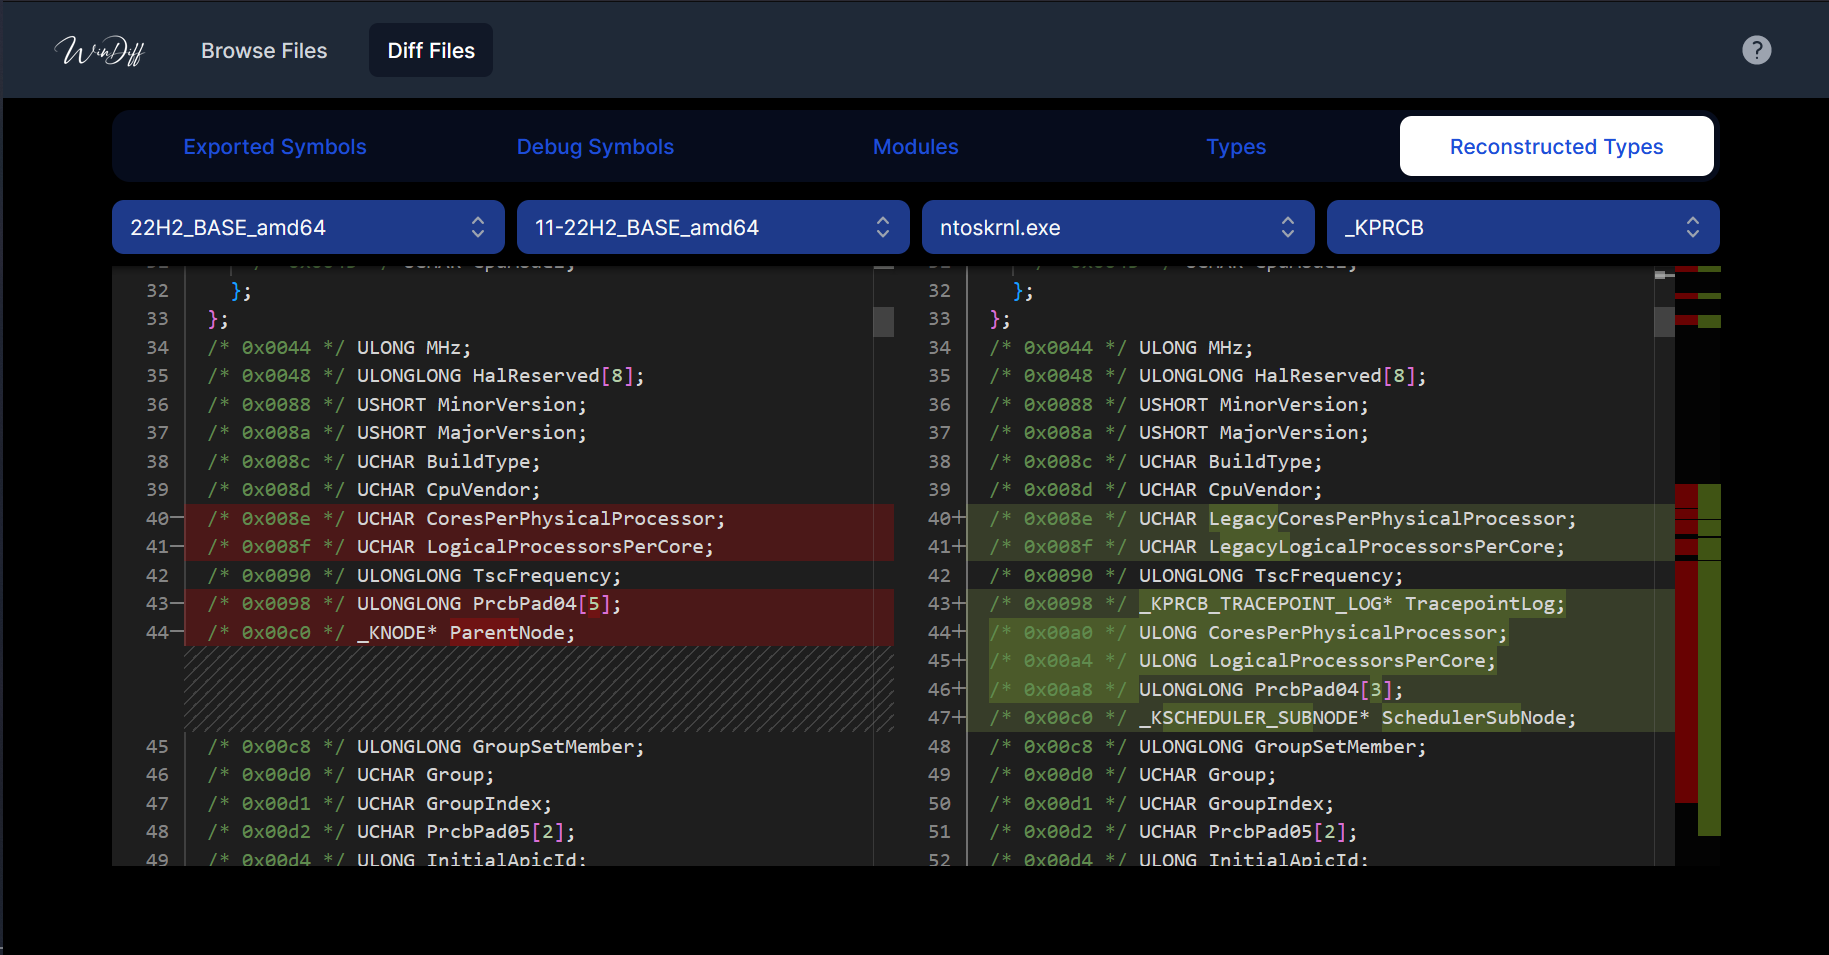
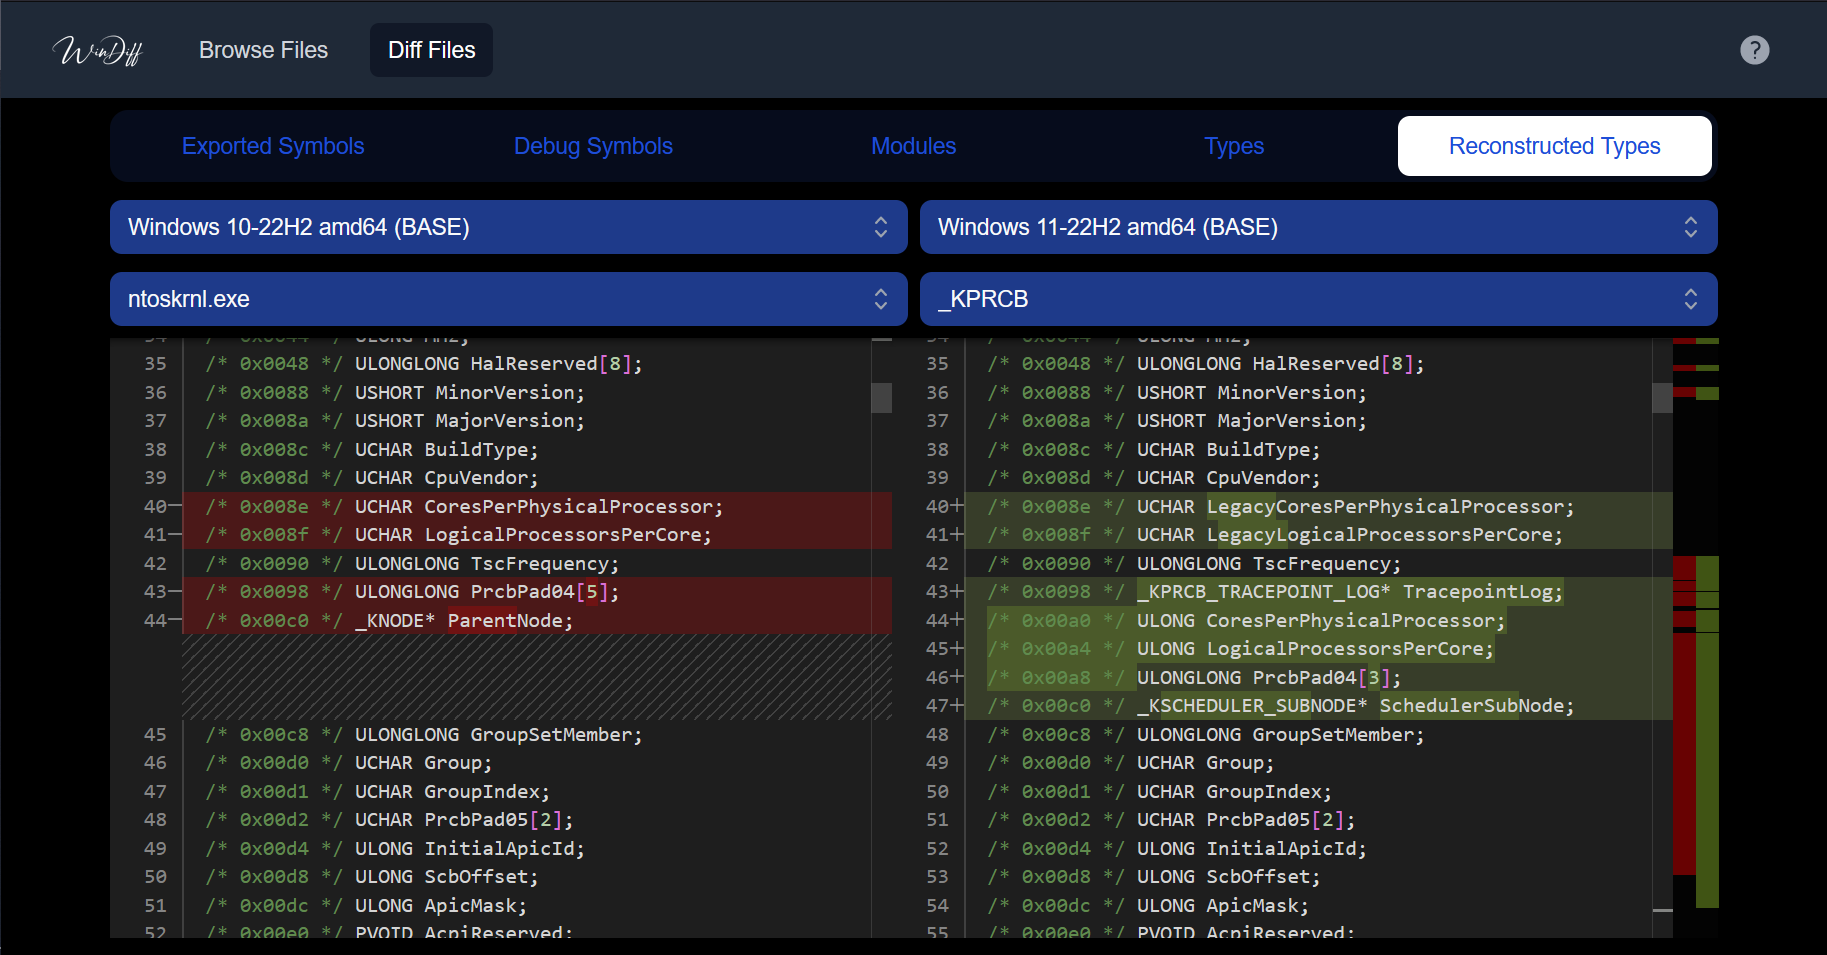
Improve DataExplorer UX
Update UI screenshot

diff --git a/windiff_frontend/src/app/data_explorer.tsx b/windiff_frontend/src/app/data_explorer.tsx
@@ -7,7 +7,11 @@ import pako from "pako";
 
 import DarkTabs from "./tabs";
 import DarkCombobox from "./combobox";
-import { WinDiffFileData, WinDiffIndexData } from "./windiff_types";
+import {
+  WinDiffFileData,
+  WinDiffIndexData,
+  WinDiffIndexOS,
+} from "./windiff_types";
 
 const compressedJsonFetcher = async (url: string) => {
   const response = await fetch(url);
@@ -41,10 +45,10 @@ const tabNames = [
 
 export default function DataExplorer({ mode }: { mode: ExplorerMode }) {
   const [currentTabId, setCurrentTabId] = useState(Tab.Exports);
-  const [selectedType, setSelectedType] = useState("");
   let [leftOSVersion, setLeftOSVersion] = useState("");
   let [rightOSVersion, setRightOSVersion] = useState("");
   let [binary, setBinary] = useState("");
+  let [selectedType, setSelectedType] = useState("");
 
   // Fetch index content
   const { data: indexData, error: indexError } = useSWR<WinDiffIndexData>(
@@ -56,18 +60,20 @@ export default function DataExplorer({ mode }: { mode: ExplorerMode }) {
   let rightFileName: string = "";
   if (indexData) {
     if (leftOSVersion.length == 0) {
-      leftOSVersion = osVersionToPathSuffix(indexData.oses[0]);
+      leftOSVersion = osVersionToHumanString(indexData.oses[0]);
     }
     if (rightOSVersion.length == 0) {
-      rightOSVersion = osVersionToPathSuffix(indexData.oses[0]);
+      rightOSVersion = osVersionToHumanString(indexData.oses[0]);
     }
     if (binary.length == 0) {
       binary = indexData.binaries[0];
     }
 
-    leftFileName = `${binary}_${leftOSVersion}.json.gz`;
+    const binaryVersion = humanOsVersionToPathSuffix(leftOSVersion);
+    leftFileName = `${binary}_${binaryVersion}.json.gz`;
     if (mode == ExplorerMode.Diff) {
-      rightFileName = `${binary}_${rightOSVersion}.json.gz`;
+      const binaryVersion = humanOsVersionToPathSuffix(rightOSVersion);
+      rightFileName = `${binary}_${binaryVersion}.json.gz`;
     }
   }
 
@@ -88,12 +94,43 @@ export default function DataExplorer({ mode }: { mode: ExplorerMode }) {
     return <div>Loading...</div>;
   }
 
+  // Setup the combobox used to select types if needed
+  const typesCombobox: JSX.Element = (() => {
+    if (leftFileData) {
+      let typeList: Set<string> | string[];
+      if (rightFileData) {
+        typeList = new Set(
+          Object.keys(leftFileData.types).concat(
+            Object.keys(rightFileData.types)
+          )
+        );
+      } else {
+        typeList = Object.keys(leftFileData.types);
+      }
+      if (selectedType.length == 0) {
+        // Select the first element of the list by default
+        selectedType = typeList.values().next().value;
+      }
+      if (currentTabId == Tab.Types) {
+        return (
+          <DarkCombobox
+            selectedOption={selectedType}
+            options={[...typeList]}
+            onChange={(value) => setSelectedType(value)}
+          />
+        );
+      }
+    }
+    return <></>;
+  })();
+
   // Prepare the appropriate data
   const compareStrings = (a: string, b: string) => (a > b ? 1 : b > a ? -1 : 0);
   const sortedOSes: string[] = indexData.oses
-    .map((osVersion: any) => osVersionToPathSuffix(osVersion))
+    .map((osVersion: any) => osVersionToHumanString(osVersion))
     .sort(compareStrings);
   const sortedBinaries: string[] = indexData.binaries.sort(compareStrings);
+
   // Data displayed on the left (in diff mode) or in the center (in browse mode)
   const leftData: string = (() => {
     if (!leftFileData) {
@@ -134,32 +171,12 @@ export default function DataExplorer({ mode }: { mode: ExplorerMode }) {
     return <></>;
   })();
 
-  // Setup the combobox used to select types if needed
-  const typesCombobox: JSX.Element = (() => {
-    if (leftFileData) {
-      let typeList: Set<string> | string[];
-      if (rightFileData) {
-        typeList = new Set(
-          Object.keys(leftFileData.types).concat(
-            Object.keys(rightFileData.types)
-          )
-        );
-      } else {
-        typeList = Object.keys(leftFileData.types);
-      }
-      if (currentTabId == Tab.Types) {
-        return (
-          <DarkCombobox
-            selectedOption={selectedType}
-            options={[...typeList]}
-            onChange={(value) => setSelectedType(value)}
-          />
-        );
-      }
-    }
-    return <></>;
-  })();
-
+  // Setup the combobox grid with 3 columns in browsing mode and 2 columns in
+  // diffing mode
+  const comboboxGridClass =
+    mode == ExplorerMode.Browse
+      ? "grid grid-cols-3 gap-2"
+      : "grid grid-cols-2 gap-2";
   const editorLanguage = currentTabId == Tab.Types ? "cpp" : "plaintext";
   return (
     <div className="flex flex-row justify-center items-center">
@@ -170,7 +187,7 @@ export default function DataExplorer({ mode }: { mode: ExplorerMode }) {
           onChange={(value) => setCurrentTabId(value)}
         />
         {/* Comboboxes used to select the binary versions */}
-        <div className="grid grid-cols-4 gap-2">
+        <div className={comboboxGridClass}>
           <DarkCombobox
             selectedOption={leftOSVersion}
             options={sortedOSes}
@@ -200,16 +217,39 @@ export default function DataExplorer({ mode }: { mode: ExplorerMode }) {
   );
 }
 
-function osVersionToHumanString(osVersion: any): string {
-  return `${osVersion.version} ${osVersion.architecture} (${osVersion.update})`;
+function osVersionToHumanString(osVersion: WinDiffIndexOS): string {
+  // Normalize version names between Windows 10 and 11
+  let versionPrefix = "";
+  if (!osVersion.version.startsWith("11")) {
+    // Windows 10
+    versionPrefix = "10-";
+  }
+
+  return `Windows ${versionPrefix}${osVersion.version} ${osVersion.architecture} (${osVersion.update})`;
 }
 
-function osVersionToPathSuffix(osVersion: any): string {
-  return `${osVersion.version}_${osVersion.update}_${osVersion.architecture}`;
+// Convert "human" versions of version strings to the corresponding file path suffixes
+function humanOsVersionToPathSuffix(osVersionName: string): string {
+  const versionParts = osVersionName.split(" ");
+  let osVersion = versionParts[1];
+  if (osVersion.startsWith("10-")) {
+    // Remove added prefix
+    osVersion = osVersion.substring(3);
+  }
+
+  const osArchitecture = versionParts[2];
+  const osUpdateWithParentheses = versionParts[3];
+  // Remove parentheses
+  const osUpdate = osUpdateWithParentheses.substring(
+    1,
+    osUpdateWithParentheses.length - 1
+  );
+
+  return `${osVersion}_${osUpdate}_${osArchitecture}`;
 }
 
 function getEditorDataFromFileData(
-  fileData: any,
+  fileData: WinDiffFileData,
   tab: Tab,
   selectedType: string | undefined
 ): string {

diff --git a/windiff_frontend/src/app/windiff_types.ts b/windiff_frontend/src/app/windiff_types.ts
@@ -3,8 +3,12 @@ export type WinDiffIndexData = {
   oses: WinDiffIndexOS[];
   binaries: WinDiffIndexBinary[];
 };
-type WinDiffIndexOS = { version: string; update: string; architecture: string };
-type WinDiffIndexBinary = string;
+export type WinDiffIndexOS = {
+  version: string;
+  update: string;
+  architecture: string;
+};
+export type WinDiffIndexBinary = string;
 
 // File data
 export type WinDiffFileData = {
